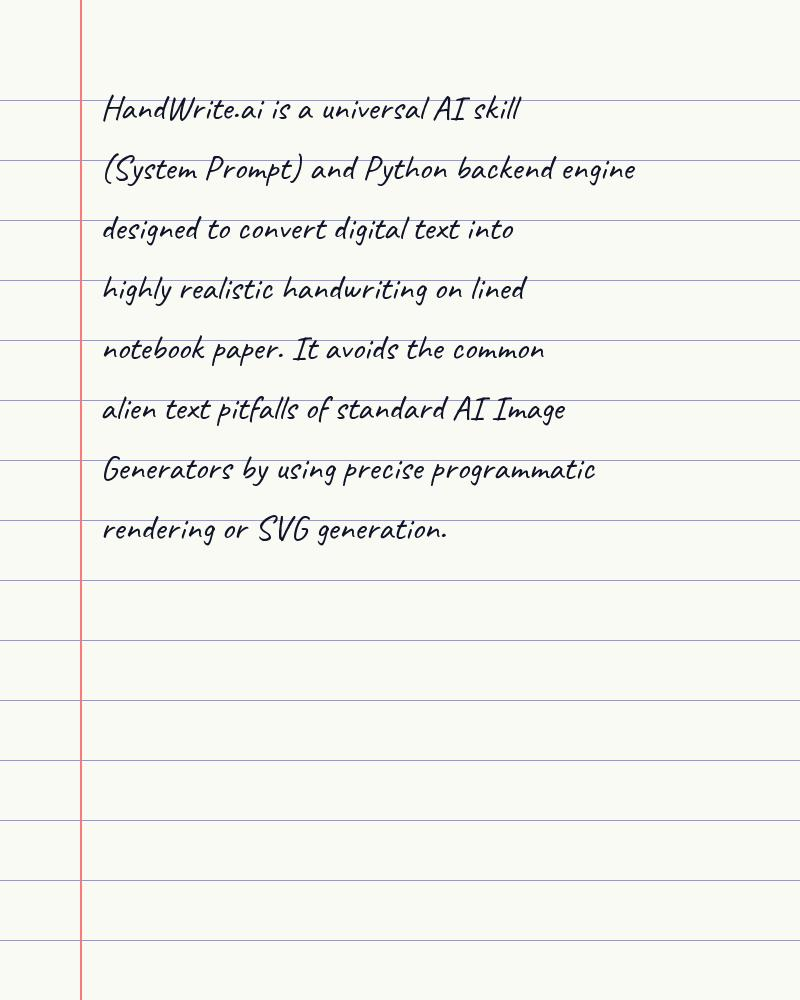
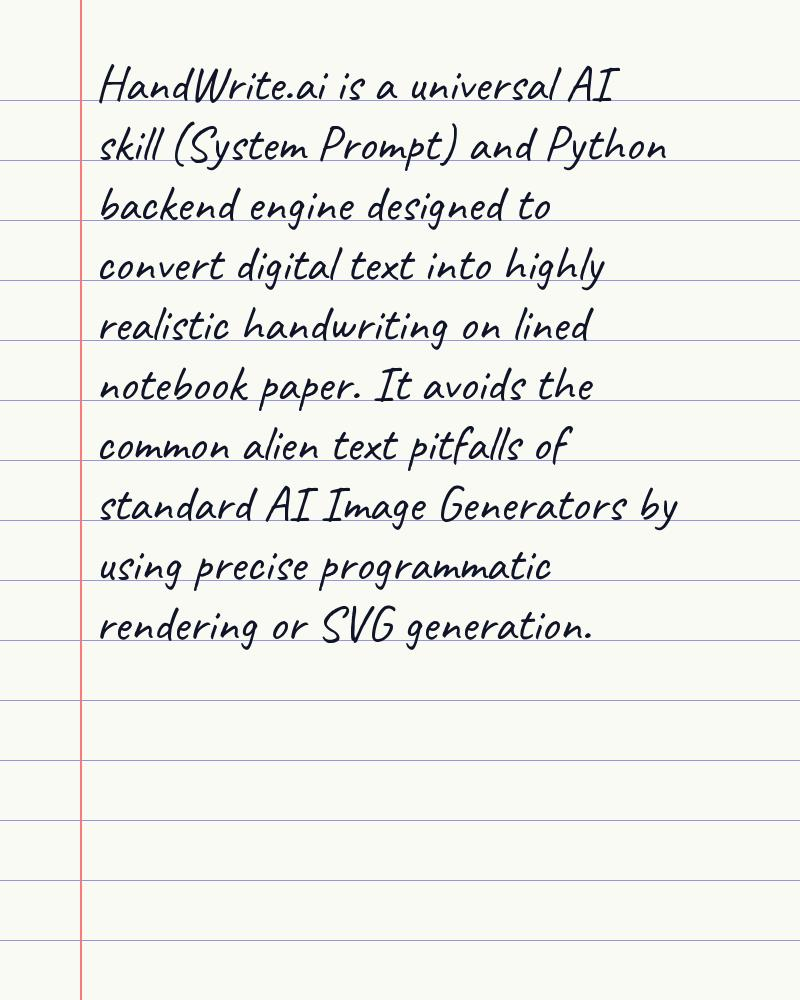
Fix text baseline alignment and font sizing for better realism

Changed region(s): [[0.125, 0.062, 0.8438, 0.651], [0.125, 0.62, 0.375, 0.651]]

diff --git a/handwrite_engine.py b/handwrite_engine.py
@@ -33,11 +33,11 @@ def render_handwriting(text, style_options):
     
     # --- STYLE PROCESSING BASED ON USER INPUT ---
     # Font Size
-    font_size = 35
+    font_size = 50 # Default (Medium)
     if style_options['ukuran'] == '1':   # Besar / Large
-        font_size = 45
+        font_size = 65
     elif style_options['ukuran'] == '3': # Kecil / Small
-        font_size = 25
+        font_size = 35
         
     # Spacing
     line_spacing = 40
@@ -65,26 +65,28 @@ def render_handwriting(text, style_options):
     draw = ImageDraw.Draw(img)
     
     # Wrapping text to prevent overflow
-    max_chars_per_line = int(650 / (font_size * 0.45))
+    # Use font.getbbox to estimate text width better, but for simplicity a fixed ratio works okay.
+    # Adjusted ratio for the Caveat font which is quite condensed.
+    max_chars_per_line = int(650 / (font_size * 0.40))
     lines = textwrap.wrap(text, width=max_chars_per_line)
     
-    # Starting coordinates (Right of the red margin, just above the first blue line)
-    x_start = 100
-    y_start = 100 - font_size + (line_spacing // 3)
+    # Starting coordinates
+    x_start = 95 # Just slightly right of the red margin (which is at 80)
     
     # Pen color (Dark blue/black ink)
     pen_color = (15, 20, 40)
     
     for i, line in enumerate(lines):
-        y = y_start + (i * line_spacing)
+        # Y coordinate is exactly the blue line position (100, 100+spacing, etc.)
+        y_line = 100 + (i * line_spacing)
         
-        # Draw text
-        draw.text((x_start, y), line, font=font, fill=pen_color)
+        # Draw text anchored at left-baseline (ls)
+        draw.text((x_start, y_line), line, font=font, fill=pen_color, anchor="ls")
         
         # If Heavy Pressure is selected, redraw slightly offset
         if thickness == 1:
-            draw.text((x_start+1, y), line, font=font, fill=pen_color)
-            draw.text((x_start, y+1), line, font=font, fill=pen_color)
+            draw.text((x_start+1, y_line), line, font=font, fill=pen_color, anchor="ls")
+            draw.text((x_start, y_line+1), line, font=font, fill=pen_color, anchor="ls")
             
     # Save output
     output_path = "output_handwriting.jpg"
